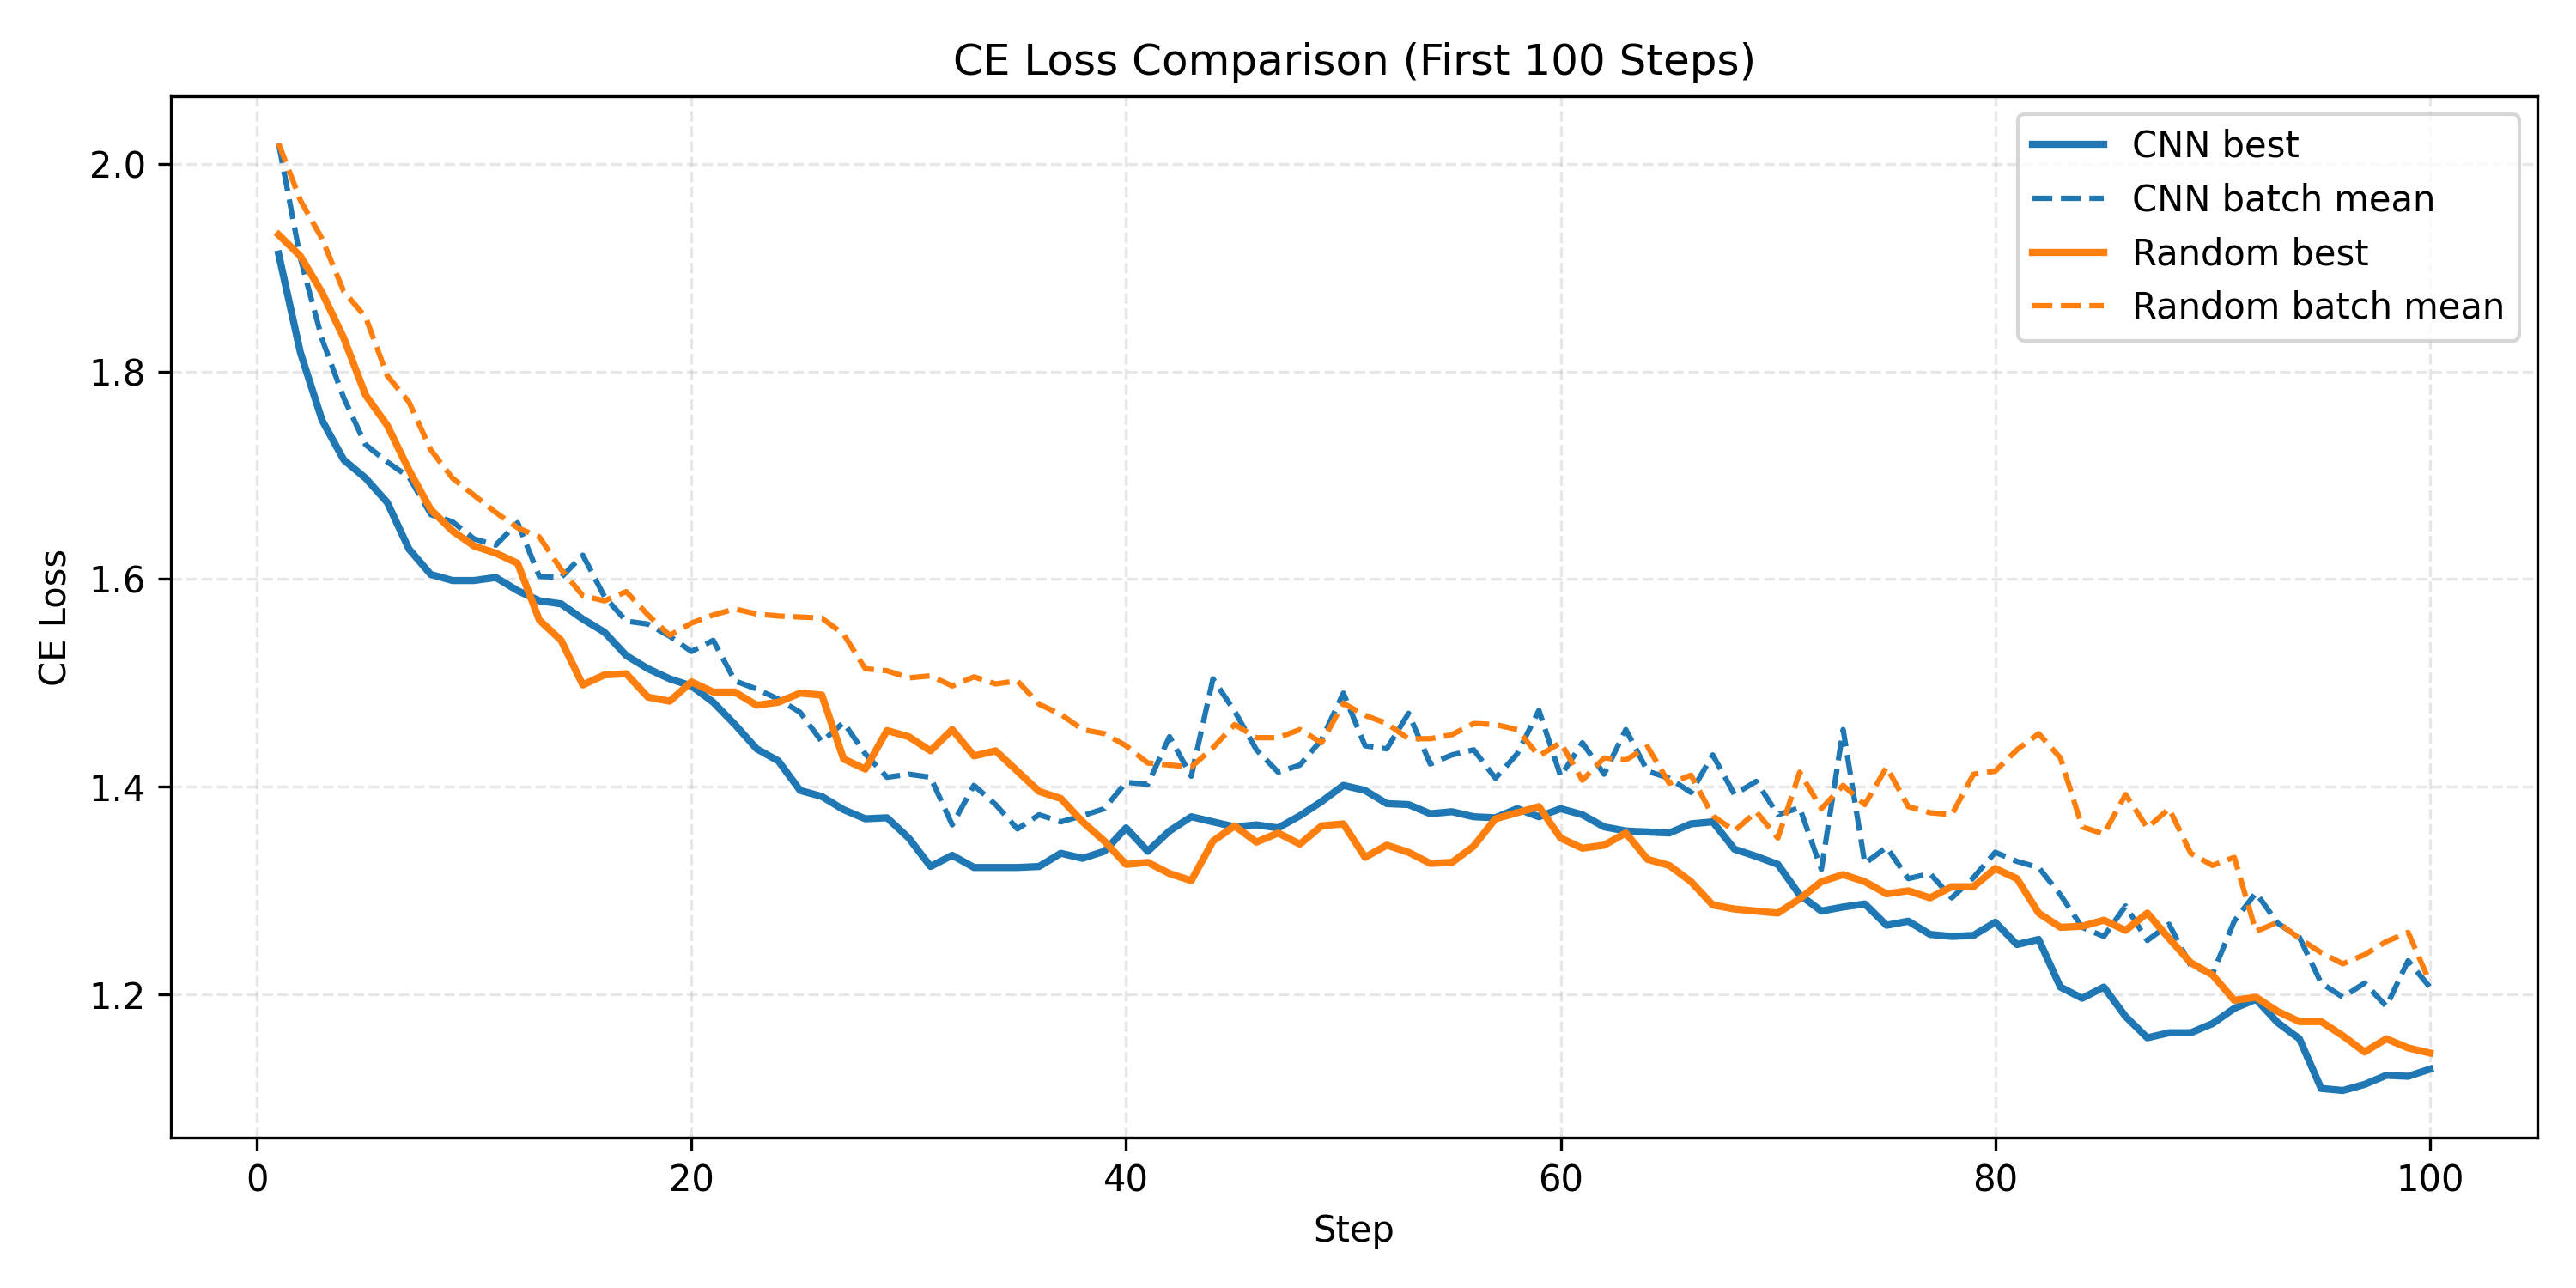
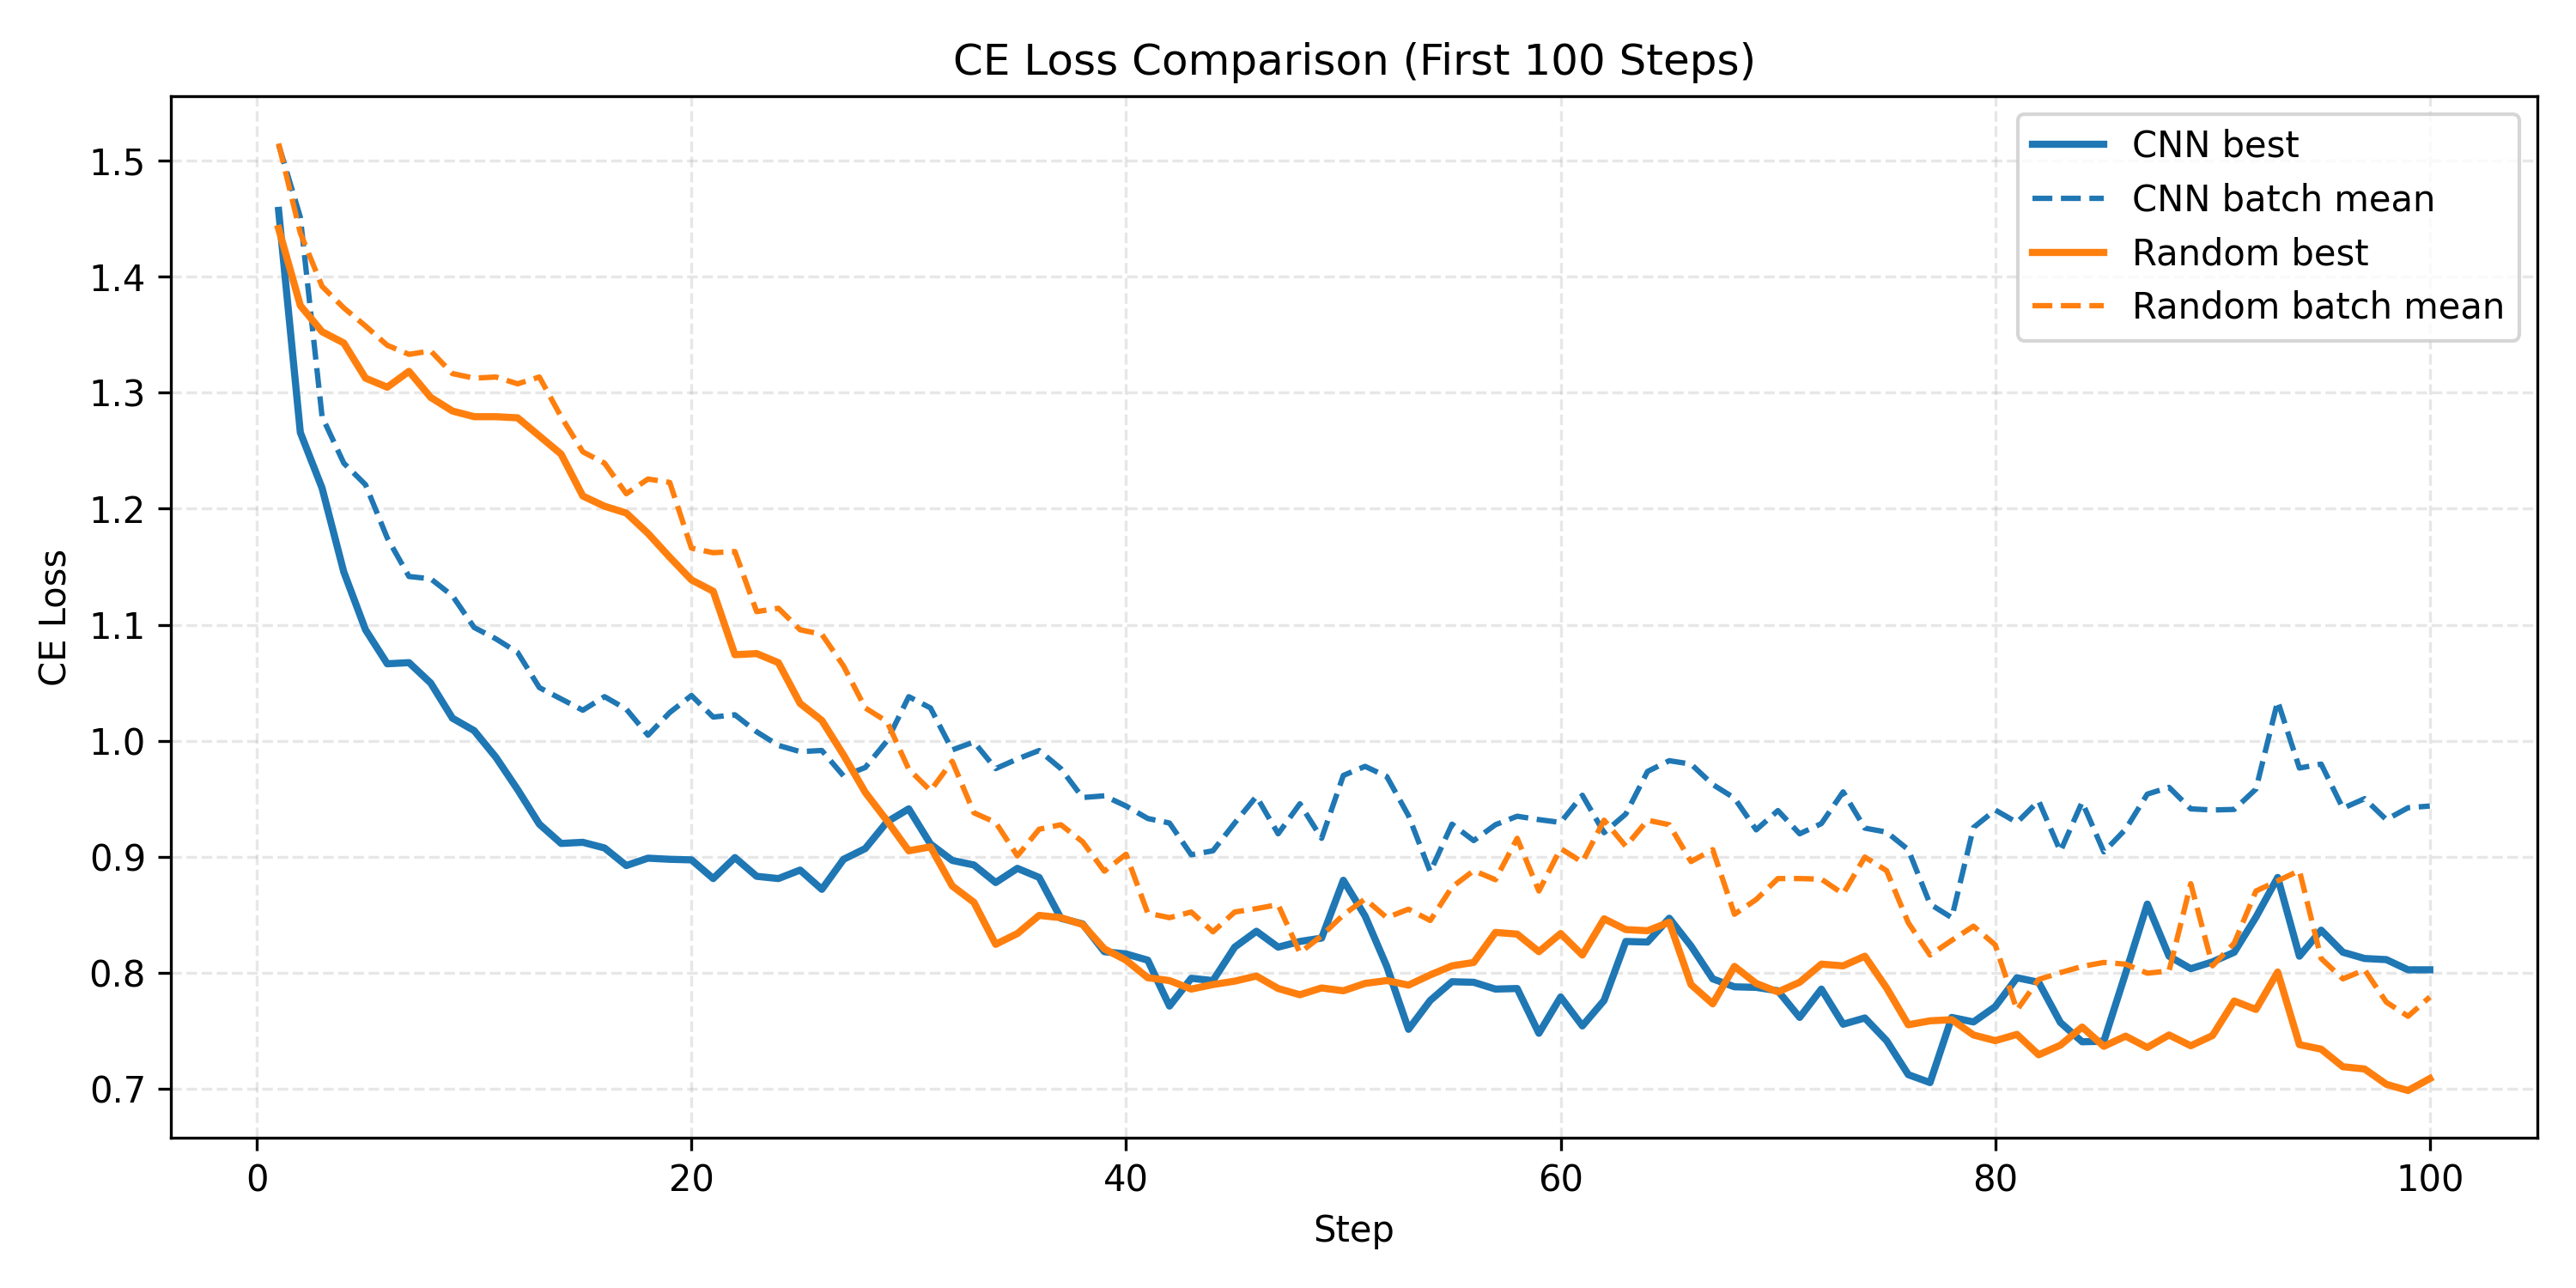
add mpl

diff --git a/test/draw_ce.py b/test/draw_ce.py
@@ -2,11 +2,15 @@ import matplotlib.pyplot as plt
 import json
 
 # ===================== JSON 路径 =====================
-json_path1 = r"D:\github\I-GCG\output\20260503-115216\log\__cross_entropy__cnn_30.json"
-json_path2 = r"D:\github\I-GCG\output\20260503-115216\log\__cross_entropy___30.json"
+#RADOM
+json_path2 = r"D:\github\I-GCG\output\20260503-145018\log\__cross_entropy___1.json"
+#CNN
+#json_path1 = r"D:\github\I-GCG\output\20260503-193242\log\__cross_entropy__cnn_1.json"
+
+json_path1 = r"D:\github\I-GCG\output\20260503-211320\log\__cross_entropy__MLP_1.json"
 
 # ===================== 加载数据 =====================
-def load_data(json_path, max_step=100):
+def load_data(json_path, max_step=200):  # <-- 这里改成 200
     with open(json_path, "r", encoding="utf-8") as f:
         data = json.load(f)
 
@@ -16,26 +20,26 @@ def load_data(json_path, max_step=100):
     all_batch_mean = [item["all_batch_ce_losses_mean"] for item in data]
     return steps, ce_losses, all_batch_mean
 
-steps1, loss1, batch_mean1 = load_data(json_path1, max_step=100)
-steps2, loss2, batch_mean2 = load_data(json_path2, max_step=100)
+steps1, loss1, batch_mean1 = load_data(json_path1, max_step=200)  # <-- 200
+steps2, loss2, batch_mean2 = load_data(json_path2, max_step=200)  # <-- 200
 
 # ===================== 绘图 =====================
-plt.figure(figsize=(10, 5))
+plt.figure(figsize=(12, 6))  # 加宽一点，200步更好看
 
 # CNN：蓝色系列（实线最优，虚线平均）
-plt.plot(steps1, loss1, linewidth=2, color='#1f77b4', label="CNN best")
-plt.plot(steps1, batch_mean1, linewidth=1.5, linestyle='--', color='#1f77b4', label="CNN batch mean")
+plt.plot(steps1, loss1, linewidth=2, color='#1f77b4', label="MLP best")
+plt.plot(steps1, batch_mean1, linewidth=1.5, linestyle='--', color='#1f77b4', label="MLP batch mean")
 
 # Random：橙色系列（实线最优，虚线平均）
 plt.plot(steps2, loss2, linewidth=2, color='#ff7f0e', label="Random best")
 plt.plot(steps2, batch_mean2, linewidth=1.5, linestyle='--', color='#ff7f0e', label="Random batch mean")
 
-plt.title("CE Loss Comparison (First 100 Steps)")
+plt.title("CE Loss Comparison (First 200 Steps)")  # <-- 标题也改成 200
 plt.xlabel("Step")
 plt.ylabel("CE Loss")
 plt.grid(alpha=0.3, linestyle="--")
 plt.legend()
 plt.tight_layout()
 
-plt.savefig("ce_loss_compare_100steps.png", dpi=300)
+plt.savefig("ce_loss_compare_200steps.png", dpi=300)  # <-- 保存名也改 200
 plt.show()